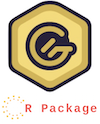
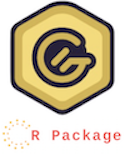
adj.sizes

diff --git a/README.md b/README.md
@@ -28,6 +28,15 @@ Overall Score: Silver
 
 ![Silver](images/silver.png)
 
+![Bronze](images/bronze.png)
+
+
+![Gold](images/gold.png)
+
+
+![Diamond](images/diamond.png)
+
+
 
 Basic example to run
 ``` r
